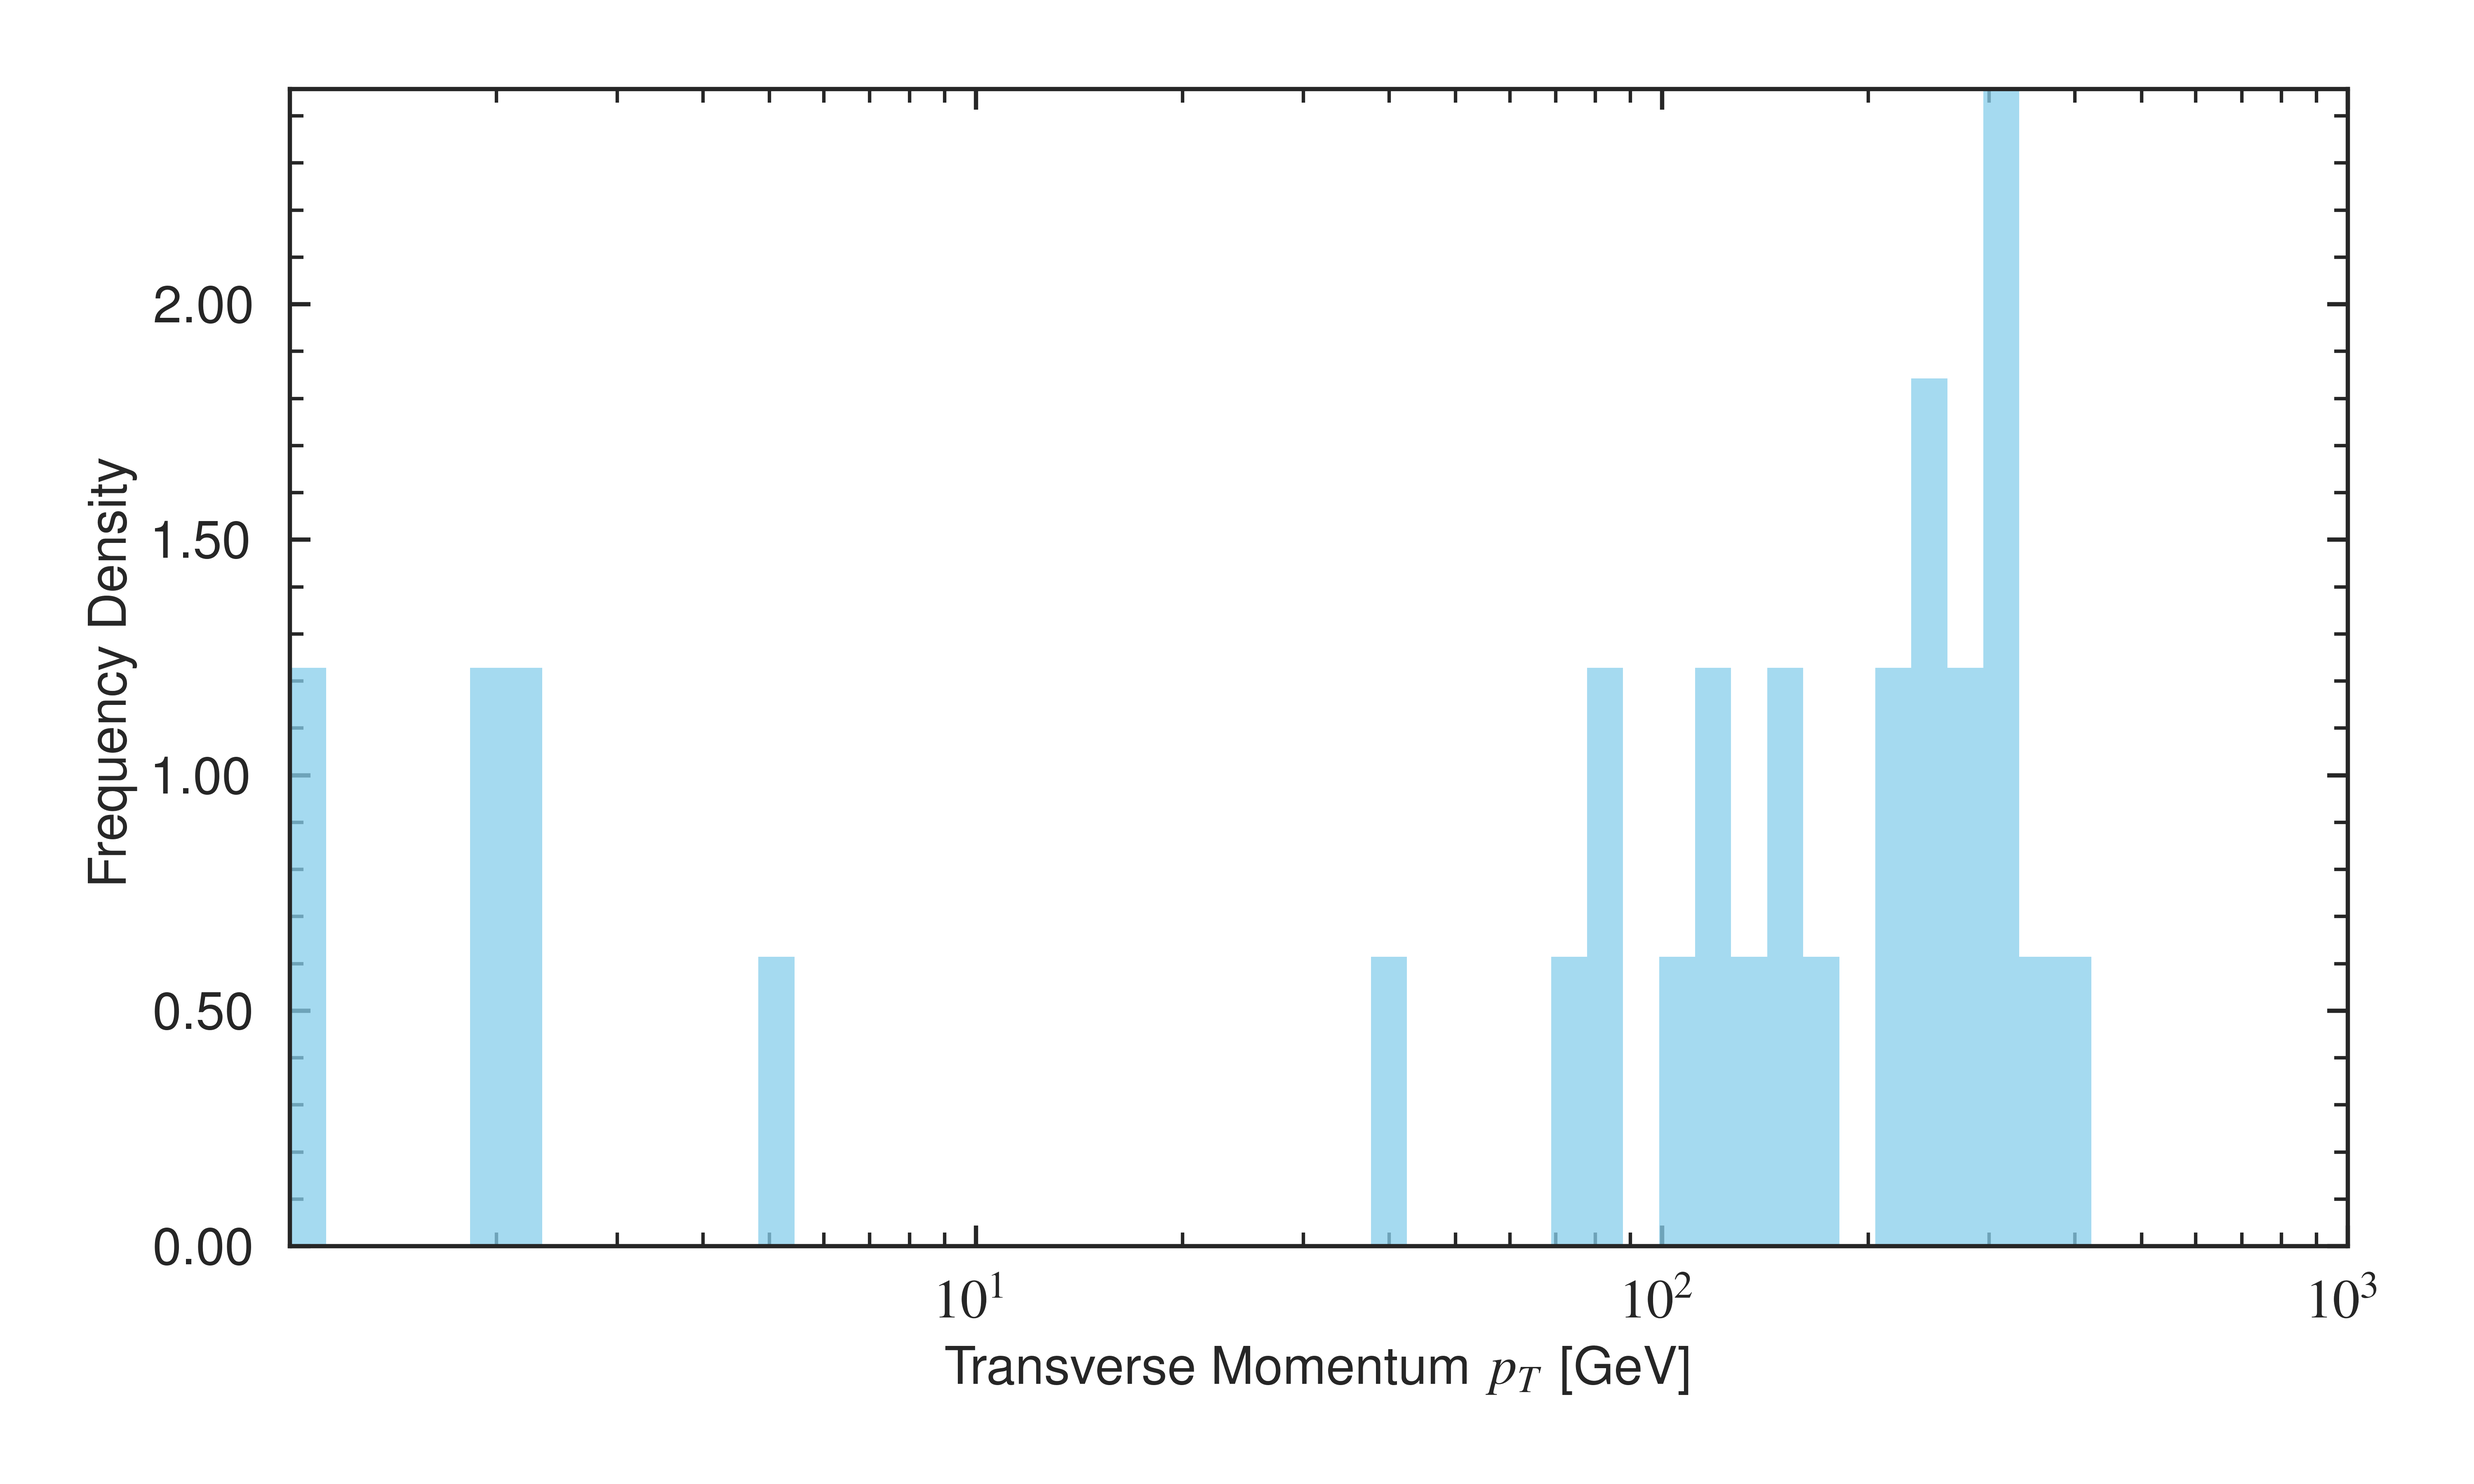
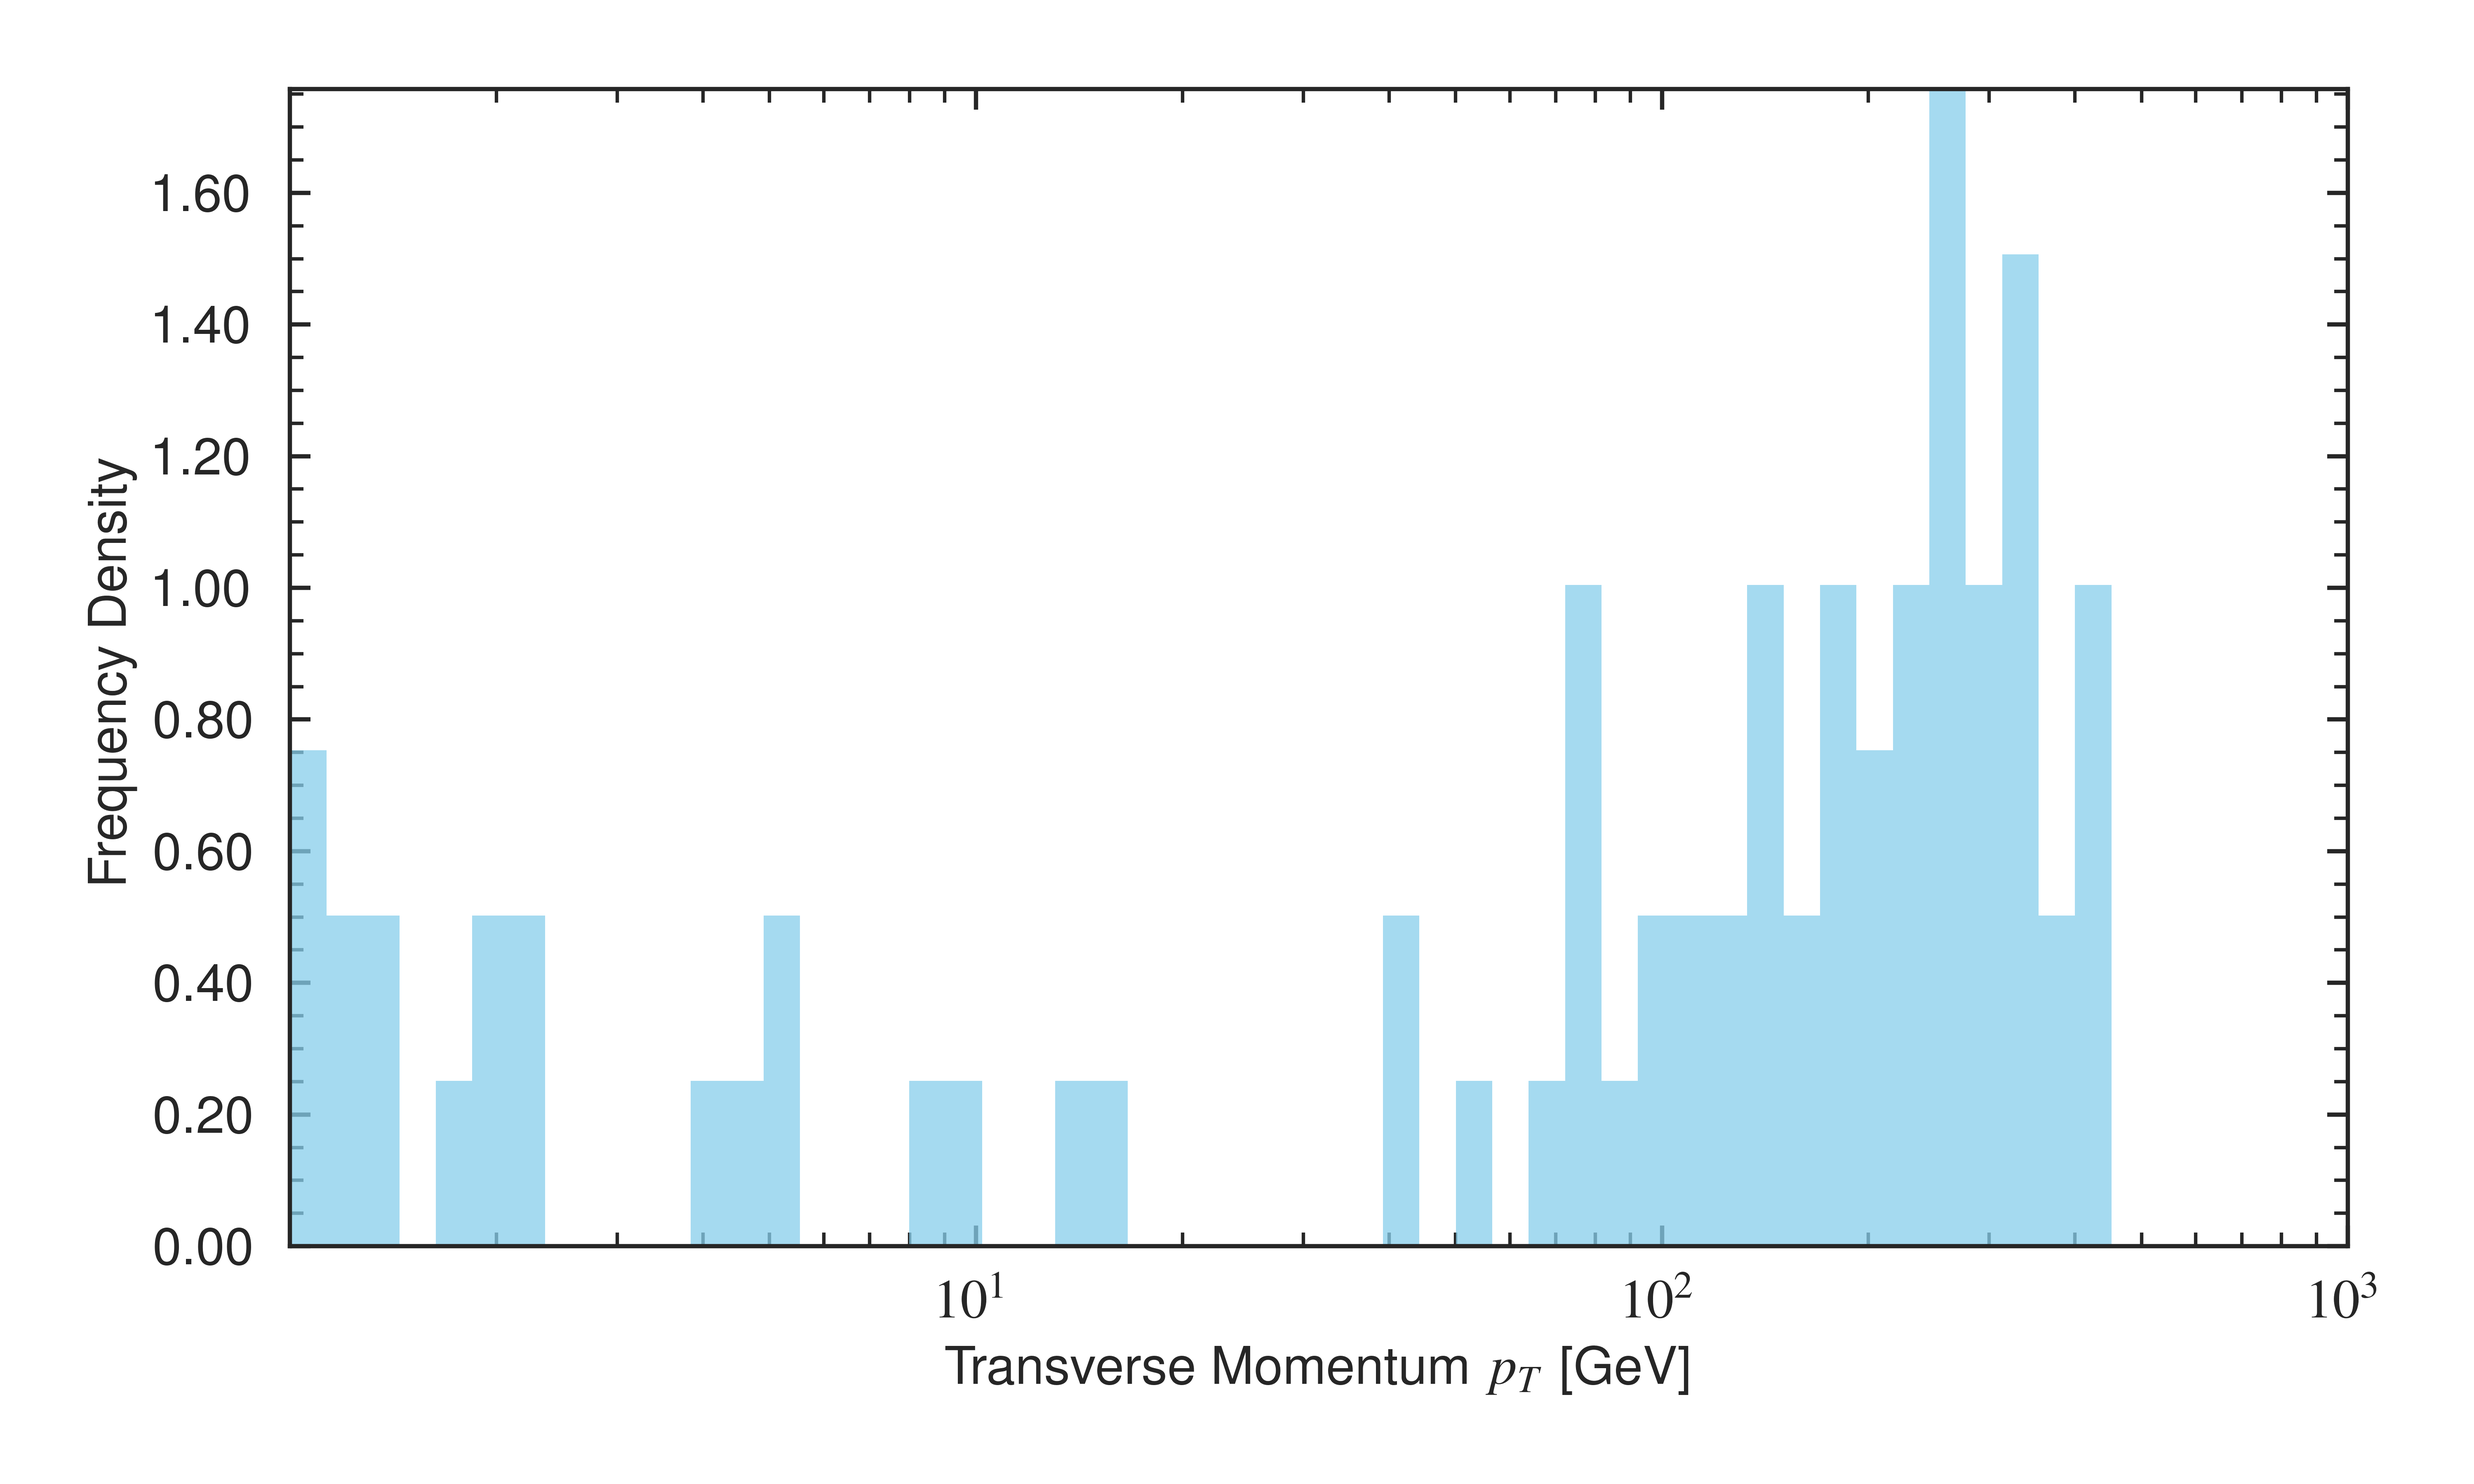
Faster select_event(). Account for empty return.

diff --git a/DDPMLHC/main_rs.py b/DDPMLHC/main_rs.py
@@ -10,7 +10,7 @@ from DDPMLHC.generate_plots.generate_1d_plots import plot_1d_histograms
 
 mpl.rcParams.update(MPL_GLOBAL_PARAMS)
 
-MAX_DATA_ROWS = 1_000_000
+# MAX_DATA_ROWS = 10_000
 
 # === Read in data
 print("0 :: Loading original data")
@@ -24,29 +24,33 @@ print("FINISHED loading data\n")
 
 #################################################################################
 
-# === Create noisy events
-print("1 :: Creating noisy events")
-make_noisy_data(range(100), tt, pile_up, 0, save_path=INTERMEDIATE_PATH)
-make_noisy_data(range(100), tt, pile_up, 10, save_path=INTERMEDIATE_PATH)
-make_noisy_data(range(100), tt, pile_up, 100, save_path=INTERMEDIATE_PATH)
-make_noisy_data(range(100), tt, pile_up, 200, save_path=INTERMEDIATE_PATH)
-print("FINISHED creating noisy events\n")
-
-# === Collapse noisy data to event-level
-print("2 :: Making noisy events with extra data")
+make_noisy_data(range(TTBAR_NUM), tt, pile_up, 0, save_path=INTERMEDIATE_PATH)
 calculate_event_level_quantities(0, INTERMEDIATE_PATH)
-calculate_event_level_quantities(10, INTERMEDIATE_PATH)
-calculate_event_level_quantities(100, INTERMEDIATE_PATH)
-calculate_event_level_quantities(200, INTERMEDIATE_PATH)
-print("FINISHED making noisy events with extra data\n")
-
-# === Draw 1D histograms
-print("3 :: Drawing 1D histograms")
 plot_1d_histograms(mu=0)
-plot_1d_histograms(mu=10)
-plot_1d_histograms(mu=100)
-plot_1d_histograms(mu=200)
-print("FINISHED drawing 1D histograms\n")
+
+# # === Create noisy events
+# print("1 :: Creating noisy events")
+# make_noisy_data(range(100), tt, pile_up, 0, save_path=INTERMEDIATE_PATH)
+# make_noisy_data(range(100), tt, pile_up, 10, save_path=INTERMEDIATE_PATH)
+# make_noisy_data(range(100), tt, pile_up, 100, save_path=INTERMEDIATE_PATH)
+# make_noisy_data(range(100), tt, pile_up, 200, save_path=INTERMEDIATE_PATH)
+# print("FINISHED creating noisy events\n")
+
+# # === Collapse noisy data to event-level
+# print("2 :: Making noisy events with extra data")
+# calculate_event_level_quantities(0, INTERMEDIATE_PATH)
+# calculate_event_level_quantities(10, INTERMEDIATE_PATH)
+# calculate_event_level_quantities(100, INTERMEDIATE_PATH)
+# calculate_event_level_quantities(200, INTERMEDIATE_PATH)
+# print("FINISHED making noisy events with extra data\n")
+
+# # === Draw 1D histograms
+# print("3 :: Drawing 1D histograms")
+# plot_1d_histograms(mu=0)
+# plot_1d_histograms(mu=10)
+# plot_1d_histograms(mu=100)
+# plot_1d_histograms(mu=200)
+# print("FINISHED drawing 1D histograms\n")
 
 # print("4 :: Drawing overlaid histograms with varying mu")
 # print("Loading intermediate data...")

diff --git a/DDPMLHC/dataset_ops/process_data.py b/DDPMLHC/dataset_ops/process_data.py
@@ -31,13 +31,14 @@ def wrap_phi(phi_centre, phis, R=1):
 ############################################################################################
 
 def make_noisy_data(jet_nos, tt_data, pile_up_data, mu, save_path="data"):
-
-    #NID,LID,px,py,pz,d_eta,d_phi,pmag
     combined = []
     running_length = 0
     for jet_no in jet_nos:
         LID_index = 0
         jet_event = select_event(tt_data, jet_no, filter=False)
+        if jet_event.size == 0:
+            print(f"Jet number {jet_no} not found. Perhaps MAX_DATA_ROWS is too small. Breaking loop.")
+            break
         axis = get_axis_eta_phi([jet_event[:,3], jet_event[:,4], jet_event[:,5]]) # Get jet centre to shift all particles eta/phi by this
 
         num_rows = jet_event.shape[0]
@@ -53,7 +54,7 @@ def make_noisy_data(jet_nos, tt_data, pile_up_data, mu, save_path="data"):
         for pu_no in pu_nos:
             LID_index += 1
             pu_event = select_event(pile_up_data, pu_no, filter=False)
-            if pu_event is None: continue
+            if pu_event == np.array([]): continue  # Skip if empty pile-up
             num_rows = pu_event.shape[0]
             LID_column = np.full((1, num_rows), LID_index) # Make array of LIDs
             NID_column = np.full((1, num_rows), jet_no) # Make array of NIDs

diff --git a/DDPMLHC/dataset_ops/data_loading.py b/DDPMLHC/dataset_ops/data_loading.py
@@ -4,20 +4,6 @@ from DDPMLHC.config import *
 # Package imports
 import numpy as np
 
-def select_event(data, num, filter=False, max_data_rows=MAX_DATA_ROWS):
+def select_event(data, num, filter=False):
     """Select data with IDs num from data file. Assumes IDs are in the first (index = 0) column."""
-    if filter == False and (max_data_rows != None) and (max_data_rows <= num):
-        raise ValueError(
-            f"Requested jet {num} is not in data. Max rows is {max_data_rows} and {num} was not found."
-        )
-    # Find unique indices
-    indices = np.unique(data[:,0])
-    if (not np.isin(num, indices)):
-        # print(f"Warn: index was not found in data file. Returning array with ID {num} (at 0th index) of same shape as 1 sample in data, with zeroes everywhere else.")
-        # zero_arr = np.zeros_like(data[0])
-        # zero_arr[0] = -1
-        # return zero_arr
-        return None
     return data[data[:, 0] == num]
-
-

diff --git a/DDPMLHC/calculate_quantities.py b/DDPMLHC/calculate_quantities.py
@@ -104,8 +104,9 @@ def get_axis_eta_phi(p):
         Location of jet axis in eta-phi space.
     """
     total_p = np.sum(p, axis=0)
-    # print("total_p", total_p)
     jet_mag = np.linalg.norm(total_p)
+    if jet_mag == 0:
+        raise ValueError("Jet magnitude is zero. Input is invalid for calculations.")
     eta = pseudorapidity(jet_mag, total_p[2])
     phi = to_phi(total_p[0], total_p[1])
     return eta, phi
